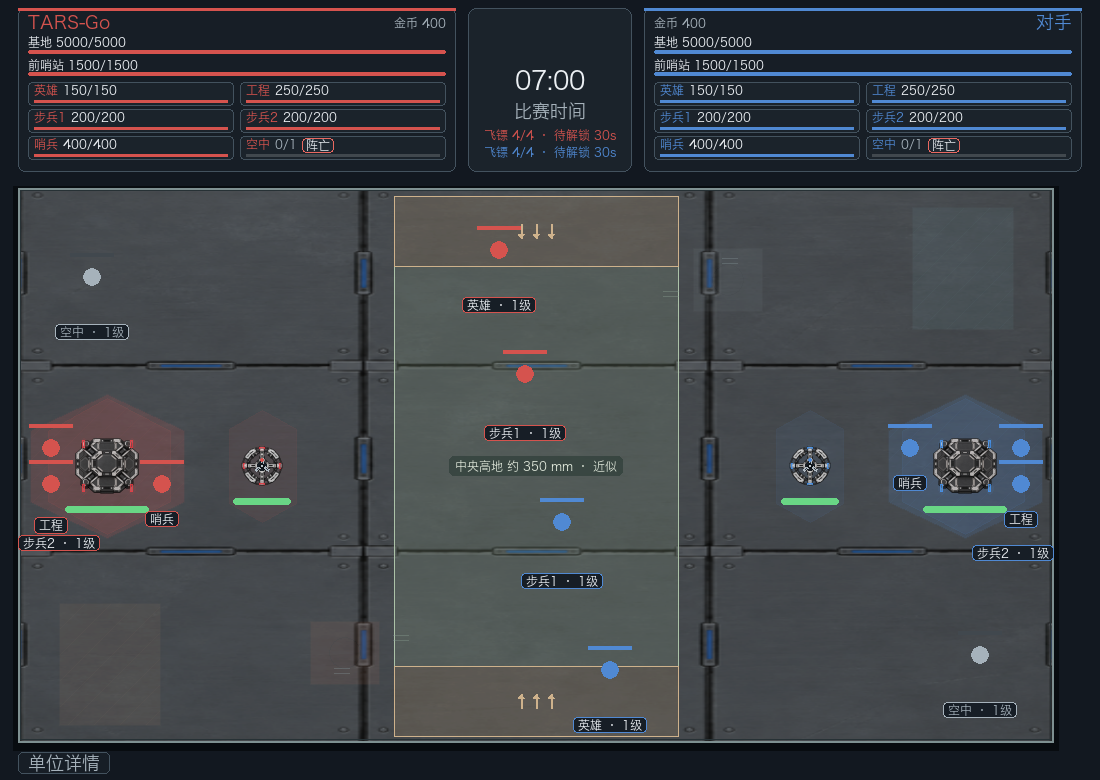
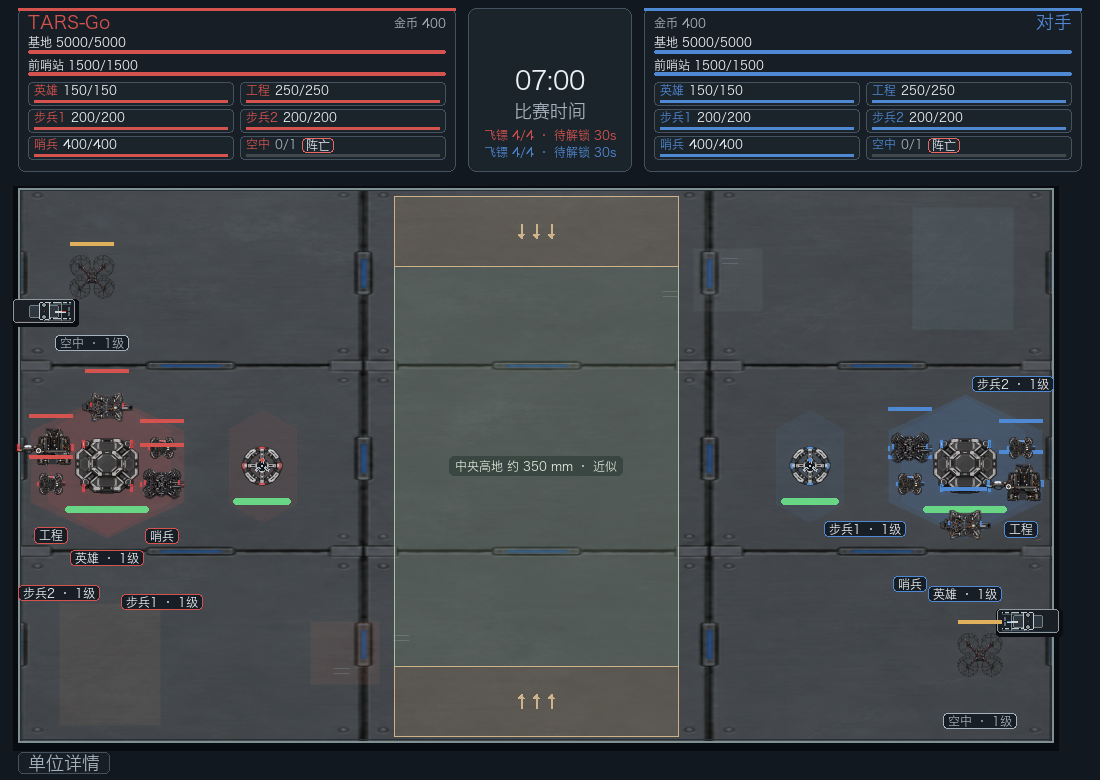
Keep RMUC robot sprites visible with terrain

diff --git a/tests/test_desktop_rmuc_polish.py b/tests/test_desktop_rmuc_polish.py
@@ -248,6 +248,112 @@ def test_approximate_central_terrain_is_visible_in_pygame_field_layer() -> None:
     assert screen.get_at(ramp_point).a > 0
 
 
+@pytest.mark.parametrize(
+    ("debug_geometry", "zoom"),
+    [(False, 1.0), (True, 1.0), (False, 1.35)],
+)
+def test_rmuc_terrain_renderer_keeps_combat_robot_sprites_above_terrain(
+    monkeypatch: pytest.MonkeyPatch,
+    debug_geometry: bool,
+    zoom: float,
+) -> None:
+    app = _app()
+    pygame = importlib.import_module("pygame")
+    match = _match()
+    base_viewport = app._viewport_for_match(match)
+    viewport = base_viewport
+
+    if zoom > 1.0:
+        # Center each role on the modeled highland so the zoomed view checks
+        # the same terrain/sprite composition as the full-field view.
+        role_positions = {
+            "hero": [(12400.0, 5600.0)],
+            "engineer": [(13400.0, 6600.0)],
+            "infantry": [(14500.0, 5600.0), (15000.0, 9000.0)],
+            "sentry": [(15600.0, 7000.0)],
+            "drone": [(14300.0, 9200.0)],
+        }
+        placed_roles: dict[tuple[str, str], int] = {}
+        for robot in match.robots:
+            key = (robot.team, robot.type)
+            role_index = placed_roles.get(key, 0)
+            placed_roles[key] = role_index + 1
+            x, y = role_positions[robot.type][role_index]
+            if robot.team != match.config.scenario.player_team:
+                robot.position = (match.map.width - x, match.map.height - y)
+            else:
+                robot.position = (x, y)
+        focus = (14000.0, 7500.0)
+        focus_screen = base_viewport.world_to_screen(focus)
+        scale = base_viewport.scale * zoom
+        viewport = type(base_viewport)(
+            origin=(
+                focus_screen[0] - focus[0] * scale,
+                focus_screen[1] - focus[1] * scale,
+            ),
+            scale=scale,
+            world_size=base_viewport.world_size,
+        )
+
+    visual_state = CombatVisualState()
+    visual_state.reset(match)
+    assert set(visual_state.robots) == {robot.id for robot in match.robots}
+
+    draw_order: list[str] = []
+    rendered_shapes: list[str] = []
+    rendered_sprites: list[str] = []
+    original_terrain = app._draw_rmuc_terrain_regions
+    original_shape = app._draw_rmuc_robot_shape
+    original_sprites = app._draw_rmuc_robot_sprites
+
+    def track_terrain(*args, **kwargs):
+        result = original_terrain(*args, **kwargs)
+        draw_order.append("terrain")
+        return result
+
+    def track_shape(surface, **kwargs):
+        rendered_shapes.append(kwargs["robot_type"])
+        draw_order.append("robot")
+        return original_shape(surface, **kwargs)
+
+    def track_sprites(surface, **kwargs):
+        rendered_sprites.append(kwargs["robot_type"])
+        return original_sprites(surface, **kwargs)
+
+    monkeypatch.setattr(app, "_draw_rmuc_terrain_regions", track_terrain)
+    monkeypatch.setattr(app, "_draw_rmuc_robot_shape", track_shape)
+    monkeypatch.setattr(app, "_draw_rmuc_robot_sprites", track_sprites)
+
+    player_team = match.config.scenario.player_team
+    opponent_team = next(
+        team.team_id
+        for team in match.config.scenario.teams.values()
+        if team.team_id != player_team
+    )
+    screen, font, small_font = _surface_and_fonts()
+    app._draw(
+        screen,
+        font,
+        small_font,
+        match,
+        player_team,
+        opponent_team,
+        set(),
+        None,
+        viewport,
+        debug_geometry=debug_geometry,
+        visual_state=visual_state,
+        static_field_cache=app.RMUCStaticFieldCache(),
+    )
+
+    expected_types = {"hero", "engineer", "infantry", "sentry", "drone"}
+    assert len(rendered_shapes) == len(match.robots)
+    assert len(rendered_sprites) == len(match.robots)
+    assert expected_types <= set(rendered_shapes)
+    assert expected_types <= set(rendered_sprites)
+    assert draw_order.index("terrain") < draw_order.index("robot")
+
+
 def test_maps_without_terrain_metadata_render_without_terrain_cues() -> None:
     app = _app()
     pygame = importlib.import_module("pygame")
